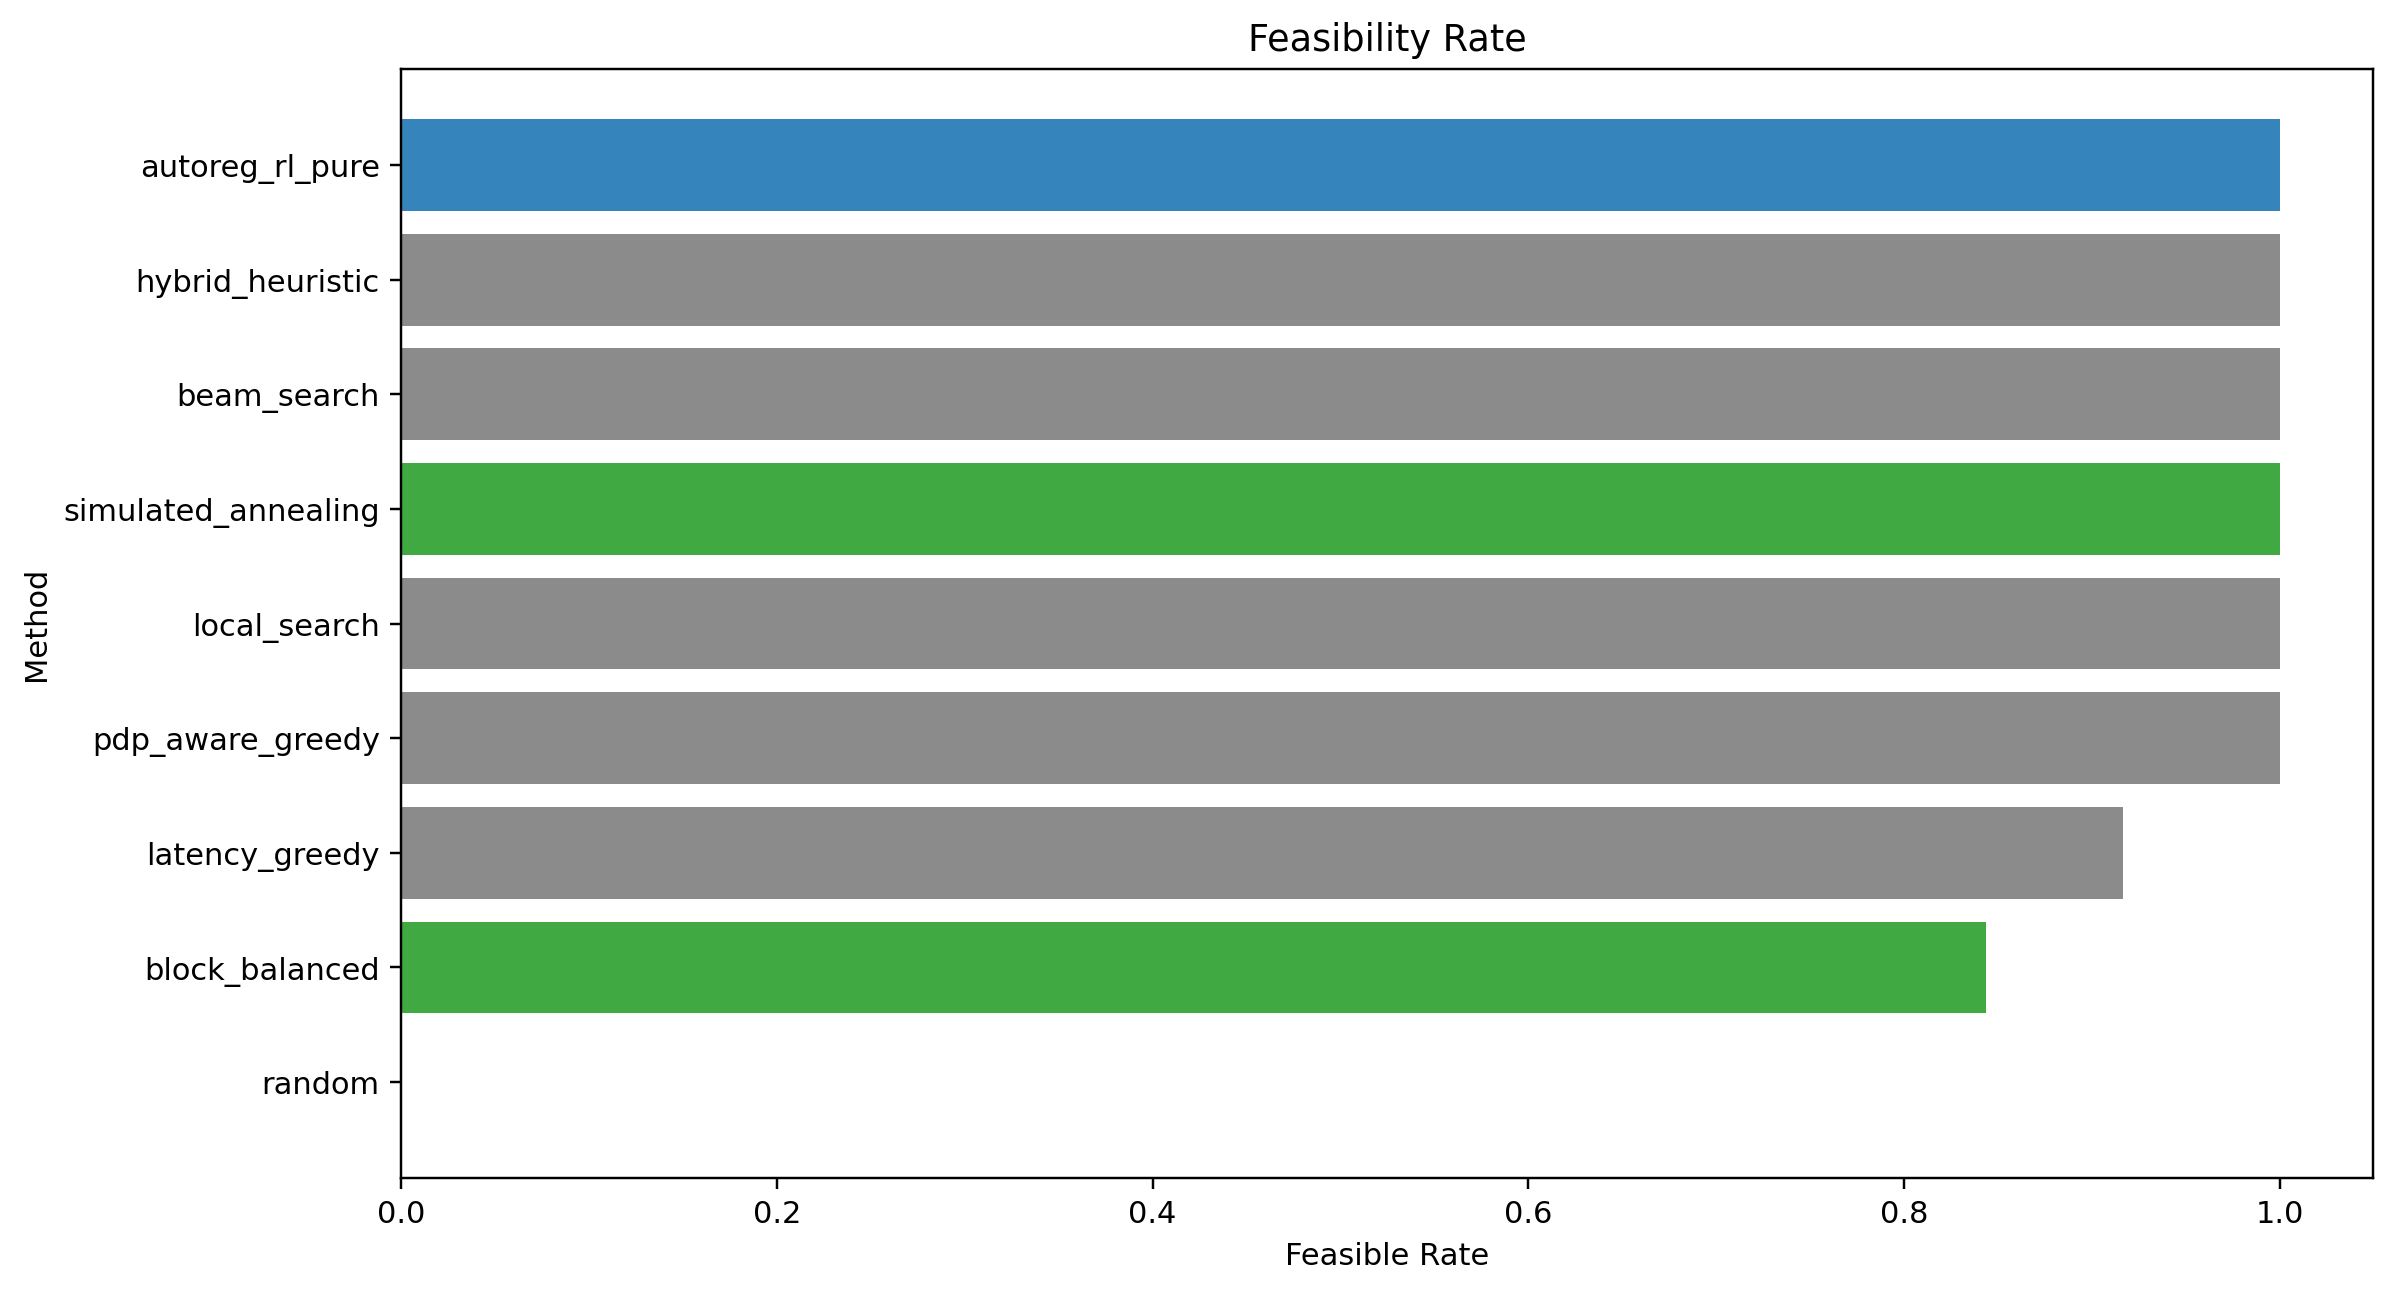
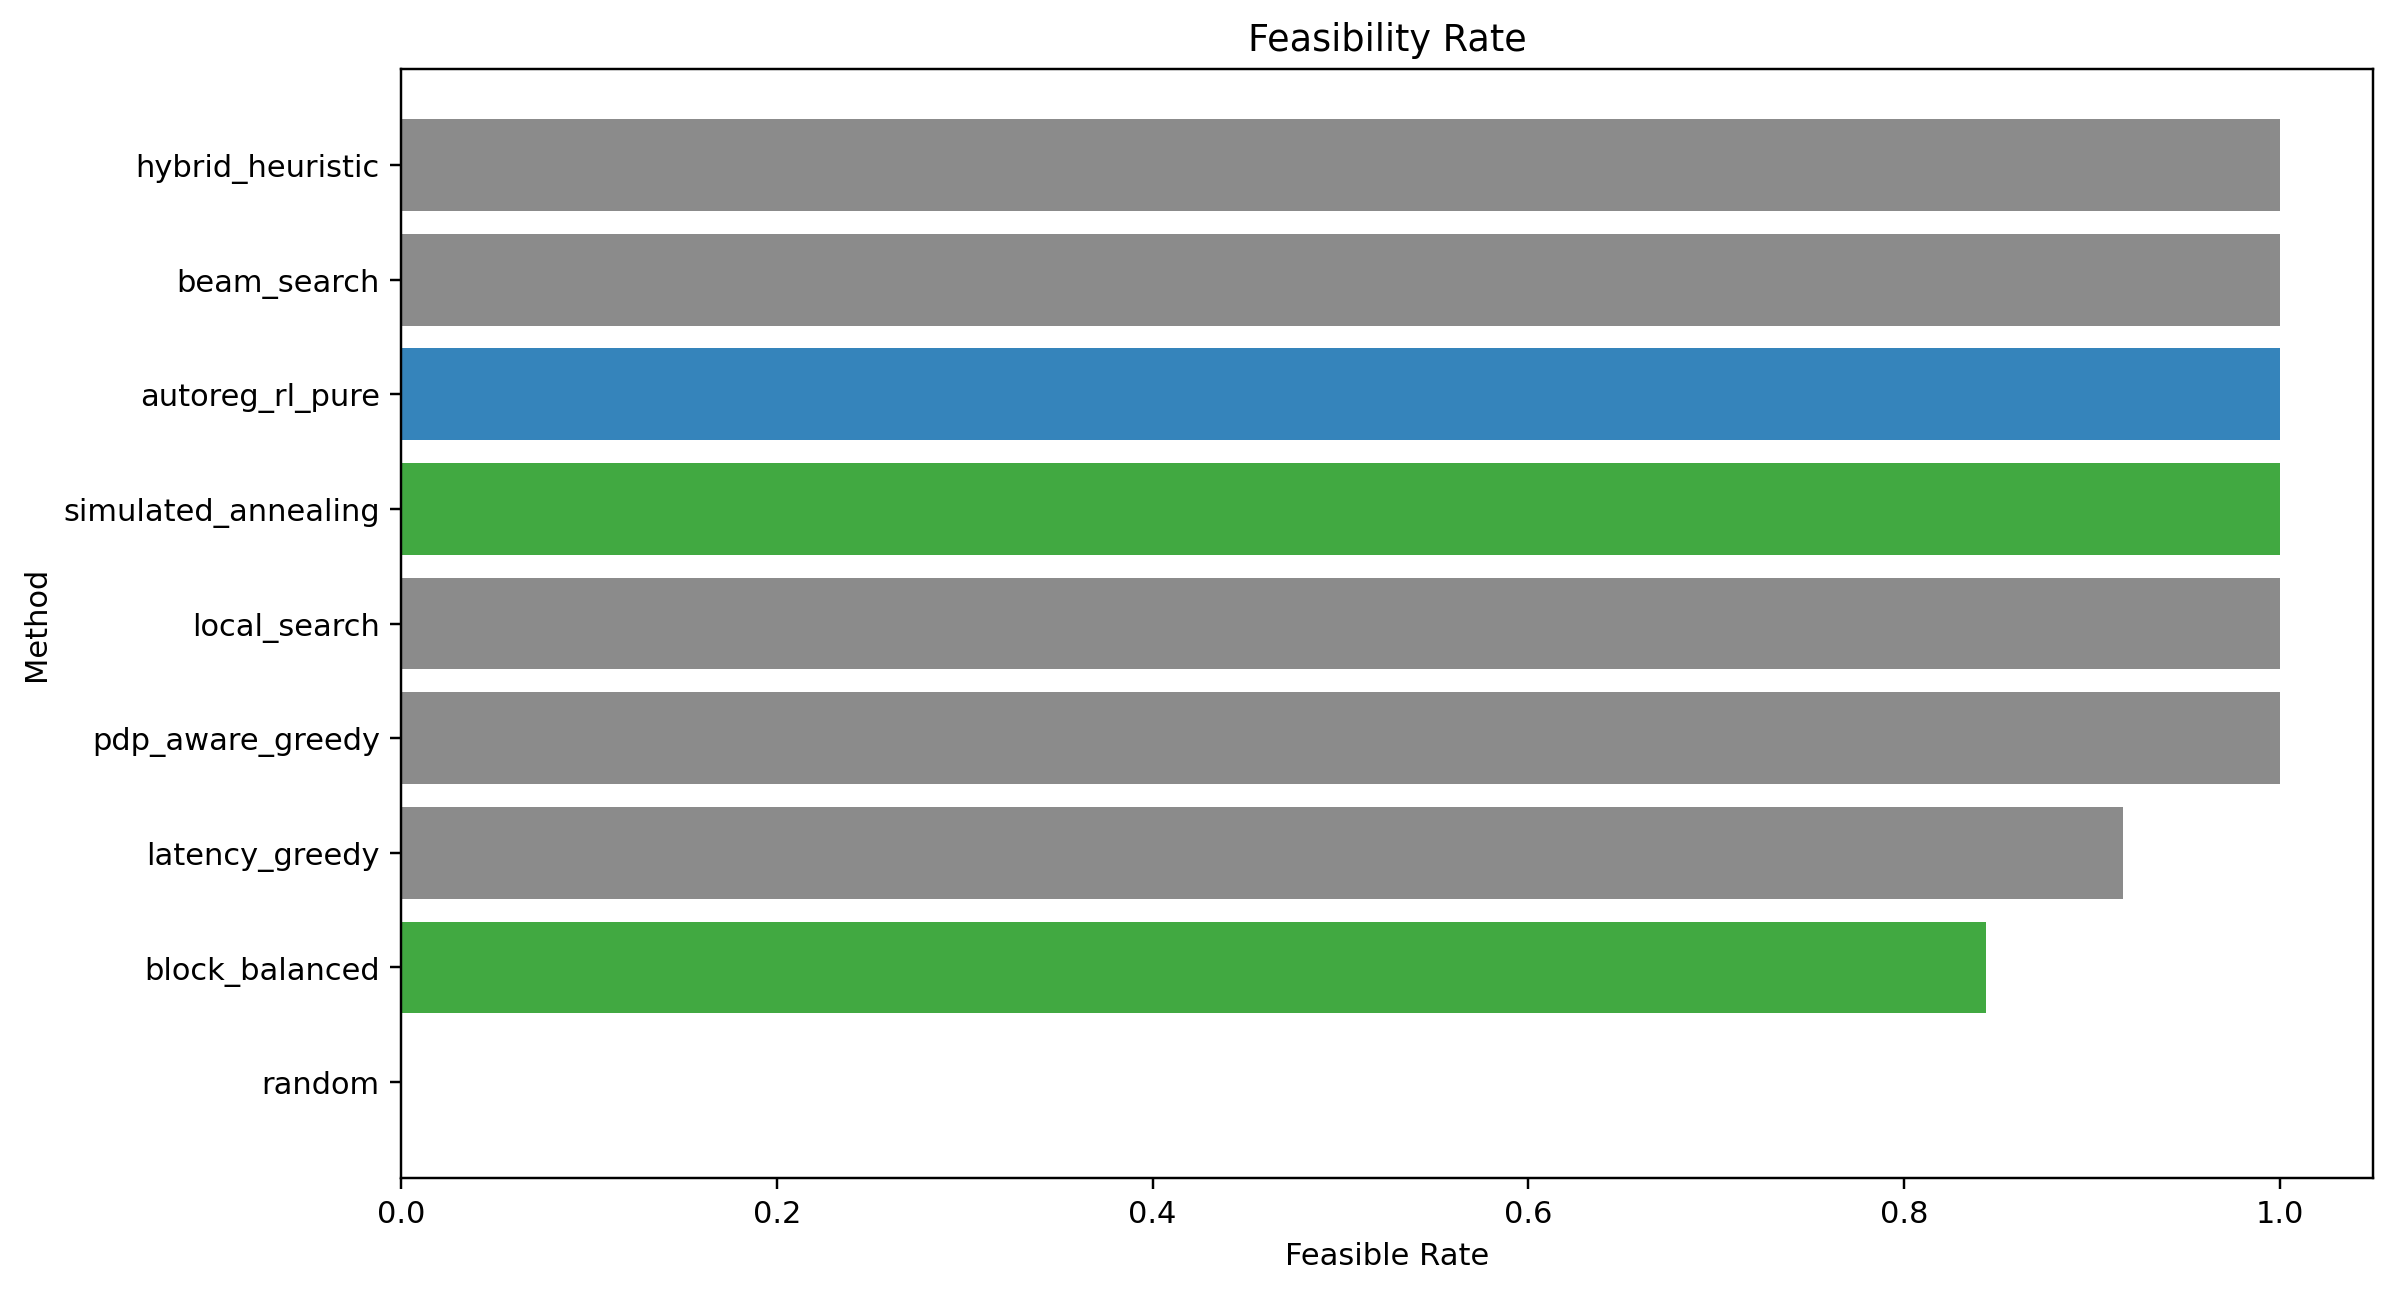
Report k64 CUDA benchmark and real LLM profile

Changed region(s): [[0.0618, 0.2477, 0.9578, 0.3406], [0.0618, 0.0929, 0.9578, 0.1858], [0.0618, 0.1858, 0.1545, 0.2477]]

diff --git a/src/make_autoreg_report.py b/src/make_autoreg_report.py
@@ -53,15 +53,20 @@ def main() -> None:
             f"| {row['method']} | {row['reward_mean']:.6f} +/- {row['reward_std']:.6f} | "
             f"{row['feasible_mean']:.4f} | {row['latency_mean']:.4f} | {row['ppl_mean']:.4f} | {row['runtime_mean']:.5f} |"
         )
+    mean_margin = float(margin["autoreg_rl_pure_margin_mean"])
+    if mean_margin >= 0.0:
+        result_line = "- Under this benchmark, autoregressive pure RL exceeds the strongest heuristic on mean reward."
+    else:
+        result_line = "- Under this benchmark, autoregressive pure RL does not exceed the strongest heuristic on mean reward."
     lines.extend(
         [
             "",
             "## Result",
             "",
-            f"- `autoreg_rl_pure` margin vs best non-RL heuristic: `{margin['autoreg_rl_pure_margin_mean']:.8f}` mean, "
+            f"- `autoreg_rl_pure` margin vs best non-RL heuristic: `{mean_margin:.8f}` mean, "
             f"`{margin['autoreg_rl_pure_margin_min']:.8f}` min.",
             f"- `autoreg_rl_pure` win/tie rate vs best non-RL heuristic: `{margin['autoreg_rl_pure_win_or_tie_rate']:.4f}`.",
-            "- Under this benchmark, autoregressive pure RL exceeds the strongest heuristic on mean reward.",
+            result_line,
             "- `dros_hybrid` remains an upper-reference hybrid method and should not be called pure RL.",
         ]
     )
@@ -70,4 +75,3 @@ def main() -> None:
 
 if __name__ == "__main__":
     main()
-

diff --git a/README.md b/README.md
@@ -8,7 +8,7 @@ The main result is a teacher-warm-start autoregressive RL policy for Qwen3-0.6B 
 
 Final report: `results/autoreg_rl_strong_benchmark_report.md`
 
-Latest full benchmark: `3 seeds x 64 states = 192 states`, `N=5` UAVs, `28` LLM layers, `1024` RL candidates per state, evaluated on CUDA.
+Latest full benchmark: `3 seeds x 64 states = 192 states`, `N=5` UAVs, `28` LLM layers, `k=64` RL candidates per state, evaluated on CUDA.
 
 Reward is the negative weighted cost for feasible deployments:
 
@@ -21,17 +21,19 @@ Hard-infeasible deployments receive `reward = -100.0`. The calibrated config use
 
 | method | reward | feasible | latency | PPL | runtime/state |
 |---|---:|---:|---:|---:|---:|
-| autoreg_rl_pure | -0.199125 +/- 0.065751 | 1.0000 | 1.9408 | 31.2131 | 0.28044s |
-| hybrid_heuristic | -0.199647 +/- 0.069228 | 1.0000 | 1.9431 | 31.2361 | 0.01101s |
-| beam_search | -0.201854 +/- 0.072310 | 1.0000 | 1.9615 | 31.2646 | 0.01101s |
-| simulated_annealing | -0.267850 +/- 0.134952 | 1.0000 | 2.4852 | 32.3142 | 0.01101s |
-| local_search | -0.269031 +/- 0.136775 | 1.0000 | 2.4911 | 32.3601 | 0.01101s |
-| pdp_aware_greedy | -0.286648 +/- 0.154524 | 1.0000 | 2.6246 | 32.6885 | 0.01101s |
-| latency_greedy | -8.859663 +/- 27.554457 | 0.9167 | 10.4054 | 41.0712 | 0.01101s |
-| block_balanced | -16.508051 +/- 36.025838 | 0.8438 | 18.0614 | 47.5062 | 0.01101s |
-| random | -100.000000 +/- 0.000000 | 0.0000 | 107.6689 | 100.4916 | 0.01101s |
+| hybrid_heuristic | -0.199647 +/- 0.069228 | 1.0000 | 1.9431 | 31.2361 | 0.01137s |
+| beam_search | -0.201854 +/- 0.072310 | 1.0000 | 1.9615 | 31.2646 | 0.01137s |
+| autoreg_rl_pure | -0.212179 +/- 0.079568 | 1.0000 | 2.0456 | 31.4119 | 0.22807s |
+| simulated_annealing | -0.267850 +/- 0.134952 | 1.0000 | 2.4852 | 32.3142 | 0.01137s |
+| local_search | -0.269031 +/- 0.136775 | 1.0000 | 2.4911 | 32.3601 | 0.01137s |
+| pdp_aware_greedy | -0.286648 +/- 0.154524 | 1.0000 | 2.6246 | 32.6885 | 0.01137s |
+| latency_greedy | -8.859663 +/- 27.554457 | 0.9167 | 10.4054 | 41.0712 | 0.01137s |
+| block_balanced | -16.508051 +/- 36.025838 | 0.8438 | 18.0614 | 47.5062 | 0.01137s |
+| random | -100.000000 +/- 0.000000 | 0.0000 | 107.6689 | 100.4916 | 0.01137s |
 
-Mean margin of `autoreg_rl_pure` vs the best non-RL heuristic: `+0.00052217`. Win/tie rate: `0.5156`.
+Mean margin of `autoreg_rl_pure` vs the best non-RL heuristic: `-0.01253196`. Win/tie rate: `0.3906`.
+
+With `k=64`, the learned policy remains feasible but no longer beats the strongest heuristic on mean reward.
 
 ## Visuals
 
@@ -47,6 +49,32 @@ Mean margin of `autoreg_rl_pure` vs the best non-RL heuristic: `+0.00052217`. Wi
 
 ![Autoreg-RL vs best heuristic](results/visuals_autoreg/autoreg_vs_heuristic_scatter.png)
 
+## Real LLM Check
+
+The real-model check loads `Qwen/Qwen3-0.6B` with `bfloat16` on CUDA and measures the profile used by the simulator. It does not distribute the model across UAV hardware; it validates the LLM profile, reference PPL, and the corruption-to-PPL surrogate.
+
+Results are stored in `results/qwen3_0p6b_real_profile`.
+
+| item | value |
+|---|---:|
+| model | `Qwen/Qwen3-0.6B` |
+| parameters | 596,049,920 |
+| layers | 28 |
+| hidden size | 1024 |
+| layer params mean | 15,730,944 |
+| dtype | bfloat16 |
+| forward latency mean | 38.422 ms |
+| reference PPL | 30.824672 |
+| fitted gamma | 10.899648 |
+| surrogate fit R2 | 0.997366 |
+| log-ratio RMSE | 0.019277 |
+
+Reproduce it with:
+
+```powershell
+python -m src.real_llm_profile --config configs/real_llm.yaml
+```
+
 ## Repository Layout
 
 - `src/autoreg_rl_agent.py`: masked autoregressive policy for layer-to-UAV assignment.
@@ -58,7 +86,7 @@ Mean margin of `autoreg_rl_pure` vs the best non-RL heuristic: `+0.00052217`. Wi
 - `src/real_llm_profile.py`: Qwen3-0.6B profile/PPL calibration script.
 - `configs/qwen3_calibrated.yaml`: calibrated simulation config.
 - `results/autoreg_rl_teacher/autoreg_policy_best.pt`: best policy checkpoint.
-- `results/benchmark_autoreg_gpu_full`: latest full CUDA benchmark.
+- `results/benchmark_autoreg_gpu_k64`: latest full CUDA benchmark with `k=64`.
 - `results/visuals_autoreg`: generated figures embedded above.
 
 ## Setup
@@ -87,7 +115,7 @@ python -m src.benchmark_autoreg `
   --seeds "91,92,93" `
   --beam-width 32 `
   --anneal-steps 128 `
-  --autoreg-candidates 1024 `
+  --autoreg-candidates 64 `
   --autoreg-refine-steps 0 `
   --out results/benchmark_autoreg_repro `
   --device cuda

diff --git a/results/autoreg_rl_strong_benchmark_report.md b/results/autoreg_rl_strong_benchmark_report.md
@@ -15,24 +15,24 @@ Training note: this checkpoint uses teacher warm-start from strong heuristic sol
 
 ## Benchmark
 
-- Benchmark directory: `results/benchmark_autoreg_gpu_full`
+- Benchmark directory: `results/benchmark_autoreg_gpu_k64`
 - States: `192`
 
 | method | reward | feasible | latency | PPL | runtime_s |
 |---|---:|---:|---:|---:|---:|
-| autoreg_rl_pure | -0.199125 +/- 0.065751 | 1.0000 | 1.9408 | 31.2131 | 0.27401 |
-| hybrid_heuristic | -0.199647 +/- 0.069228 | 1.0000 | 1.9431 | 31.2361 | 0.01062 |
-| beam_search | -0.201854 +/- 0.072310 | 1.0000 | 1.9615 | 31.2646 | 0.01062 |
-| simulated_annealing | -0.267850 +/- 0.134952 | 1.0000 | 2.4852 | 32.3142 | 0.01062 |
-| local_search | -0.269031 +/- 0.136775 | 1.0000 | 2.4911 | 32.3601 | 0.01062 |
-| pdp_aware_greedy | -0.286648 +/- 0.154524 | 1.0000 | 2.6246 | 32.6885 | 0.01062 |
-| latency_greedy | -8.859663 +/- 27.554457 | 0.9167 | 10.4054 | 41.0712 | 0.01062 |
-| block_balanced | -16.508051 +/- 36.025838 | 0.8438 | 18.0614 | 47.5062 | 0.01062 |
-| random | -100.000000 +/- 0.000000 | 0.0000 | 107.6689 | 100.4916 | 0.01062 |
+| hybrid_heuristic | -0.199647 +/- 0.069228 | 1.0000 | 1.9431 | 31.2361 | 0.01137 |
+| beam_search | -0.201854 +/- 0.072310 | 1.0000 | 1.9615 | 31.2646 | 0.01137 |
+| autoreg_rl_pure | -0.212179 +/- 0.079568 | 1.0000 | 2.0456 | 31.4119 | 0.22807 |
+| simulated_annealing | -0.267850 +/- 0.134952 | 1.0000 | 2.4852 | 32.3142 | 0.01137 |
+| local_search | -0.269031 +/- 0.136775 | 1.0000 | 2.4911 | 32.3601 | 0.01137 |
+| pdp_aware_greedy | -0.286648 +/- 0.154524 | 1.0000 | 2.6246 | 32.6885 | 0.01137 |
+| latency_greedy | -8.859663 +/- 27.554457 | 0.9167 | 10.4054 | 41.0712 | 0.01137 |
+| block_balanced | -16.508051 +/- 36.025838 | 0.8438 | 18.0614 | 47.5062 | 0.01137 |
+| random | -100.000000 +/- 0.000000 | 0.0000 | 107.6689 | 100.4916 | 0.01137 |
 
 ## Result
 
-- `autoreg_rl_pure` margin vs best non-RL heuristic: `0.00052217` mean, `-0.12748355` min.
-- `autoreg_rl_pure` win/tie rate vs best non-RL heuristic: `0.5156`.
-- Under this benchmark, autoregressive pure RL exceeds the strongest heuristic on mean reward.
+- `autoreg_rl_pure` margin vs best non-RL heuristic: `-0.01253196` mean, `-0.24414838` min.
+- `autoreg_rl_pure` win/tie rate vs best non-RL heuristic: `0.3906`.
+- Under this benchmark, autoregressive pure RL does not exceed the strongest heuristic on mean reward.
 - `dros_hybrid` remains an upper-reference hybrid method and should not be called pure RL.

diff --git a/results/benchmark_autoreg_gpu_k64/benchmark_report.md b/results/benchmark_autoreg_gpu_k64/benchmark_report.md
@@ -1,0 +1,17 @@
+# Autoregressive RL Benchmark
+
+States: `192`
+
+| method | reward | feasible | latency | PPL | runtime_s |
+|---|---:|---:|---:|---:|---:|
+| hybrid_heuristic | -0.199647 +/- 0.069228 | 1.0000 | 1.9431 | 31.2361 | 0.01137 |
+| beam_search | -0.201854 +/- 0.072310 | 1.0000 | 1.9615 | 31.2646 | 0.01137 |
+| autoreg_rl_pure | -0.212179 +/- 0.079568 | 1.0000 | 2.0456 | 31.4119 | 0.22807 |
+| simulated_annealing | -0.267850 +/- 0.134952 | 1.0000 | 2.4852 | 32.3142 | 0.01137 |
+| local_search | -0.269031 +/- 0.136775 | 1.0000 | 2.4911 | 32.3601 | 0.01137 |
+| pdp_aware_greedy | -0.286648 +/- 0.154524 | 1.0000 | 2.6246 | 32.6885 | 0.01137 |
+| latency_greedy | -8.859663 +/- 27.554457 | 0.9167 | 10.4054 | 41.0712 | 0.01137 |
+| block_balanced | -16.508051 +/- 36.025838 | 0.8438 | 18.0614 | 47.5062 | 0.01137 |
+| random | -100.000000 +/- 0.000000 | 0.0000 | 107.6689 | 100.4916 | 0.01137 |
+
+Autoreg-RL-pure margin vs best heuristic: mean `-0.01253196`, min `-0.24414838`, win/tie rate `0.3906`.

diff --git a/results/visuals_autoreg/visual_summary.md b/results/visuals_autoreg/visual_summary.md
@@ -1,9 +1,9 @@
 # Visual Summary
 
 - Train dir: `results/autoreg_rl_teacher`
-- Benchmark dir: `results/benchmark_autoreg_gpu_full`
-- Autoreg-RL margin mean: `0.00052217`
-- Autoreg-RL win/tie rate: `0.5156`
+- Benchmark dir: `results/benchmark_autoreg_gpu_k64`
+- Autoreg-RL margin mean: `-0.01253196`
+- Autoreg-RL win/tie rate: `0.3906`
 
 ## Generated Files
 
